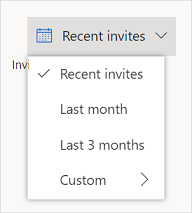
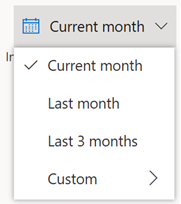
topics review

diff --git a/cv-docs/view-survey-invite.md b/cv-docs/view-survey-invite.md
@@ -1,7 +1,7 @@
 ---
 title: "Report on survey invitations | MicrosoftDocs"
 description: "A survey invitation record is created for each survey email that's sent. This topic explains how to view the survey invitations report."
-ms.date: 05/23/2023
+ms.date: 08/29/2024
 ms.topic: article
 author: sbmjais
 ms.author: shjais
@@ -60,7 +60,7 @@ For example, the following image shows details for the failed invitations.
 
 ## Filter invitation details
 
-You can filter data in the invitation report by using the **Recent invites** filter. Select **Last month**, **Last 3 months**, or select **Custom** and create the range of months that you're interested in.
+You can filter data in the invitation report by using the **Current month** filter. Select **Last month**, **Last 3 months**, or select **Custom** and create the range of months that you're interested in.
 
 > [!NOTE]
 > The invites are stored in UTC time. When you select a filter, the invites are filtered based on the UTC time. Hence, you might see a difference in the number of invites displayed as per your time zone.

diff --git a/cv-docs/send-survey-flow.md b/cv-docs/send-survey-flow.md
@@ -1,7 +1,7 @@
 ---
 title: "Send a survey by using Power Automate | MicrosoftDocs"
 description: "You can send a survey to respondents based on a business trigger such as resolution of a case. This topic explains how to send a survey by using Power Automate."
-ms.date: 08/29/2024
+ms.date: 01/06/2023
 ms.topic: article
 author: sbmjais
 ms.author: shjais

diff --git a/cv-docs/satisfaction-metrics-report.md b/cv-docs/satisfaction-metrics-report.md
@@ -1,7 +1,7 @@
 ---
 title: "View satisfaction metrics report | MicrosoftDocs"
 description: "This topic explains how to use the satisfaction metrics dashboard to see recent scores and trends of satisfaction metrics in Dynamics 365 Customer Voice."
-ms.date: 05/06/2021
+ms.date: 08/29/2024
 ms.topic: article
 author: sbmjais
 ms.author: shjais

diff --git a/cv-docs/survey-report.md b/cv-docs/survey-report.md
@@ -1,7 +1,7 @@
 ---
 title: "View survey responses report | MicrosoftDocs"
 description: "This topic explains how to view a survey response report in Dynamics 365 Customer Voice after a respondent (tracked and anonymous) submits a survey."
-ms.date: 10/28/2021
+ms.date: 08/29/2024
 ms.topic: article
 author: sbmjais
 ms.author: shjais

diff --git a/cv-docs/embed-web-page.md b/cv-docs/embed-web-page.md
@@ -31,7 +31,7 @@ The values of variables in a response are displayed on the **Personalized data**
 
 1.  Open the survey you want to embed and go to the **Send** tab.
 
-2.  Select **Embed**.
+2.  Select **Embed code**.
 
 3.  Under **Choose an embed format**, select one of the following options:
 

diff --git a/cv-docs/about-reports.md b/cv-docs/about-reports.md
@@ -1,7 +1,7 @@
 ---
 title: "About reports | MicrosoftDocs"
 description: "This topic explains how to view and analyze survey results by using reports in Dynamics 365 Customer Voice."
-ms.date: 07/29/2020
+ms.date: 08/29/2024
 ms.topic: article
 author: sbmjais
 ms.author: shjais

diff --git a/cv-docs/view-email-status.md b/cv-docs/view-email-status.md
@@ -1,7 +1,7 @@
 ---
 title: Email delivery status
 description: Learn how to view the survey email delivery status and understand the reason if the delivery failed.
-ms.date: 10/28/2022
+ms.date: 08/29/2024
 ms.topic: article
 author: sbmjais
 ms.author: shjais
